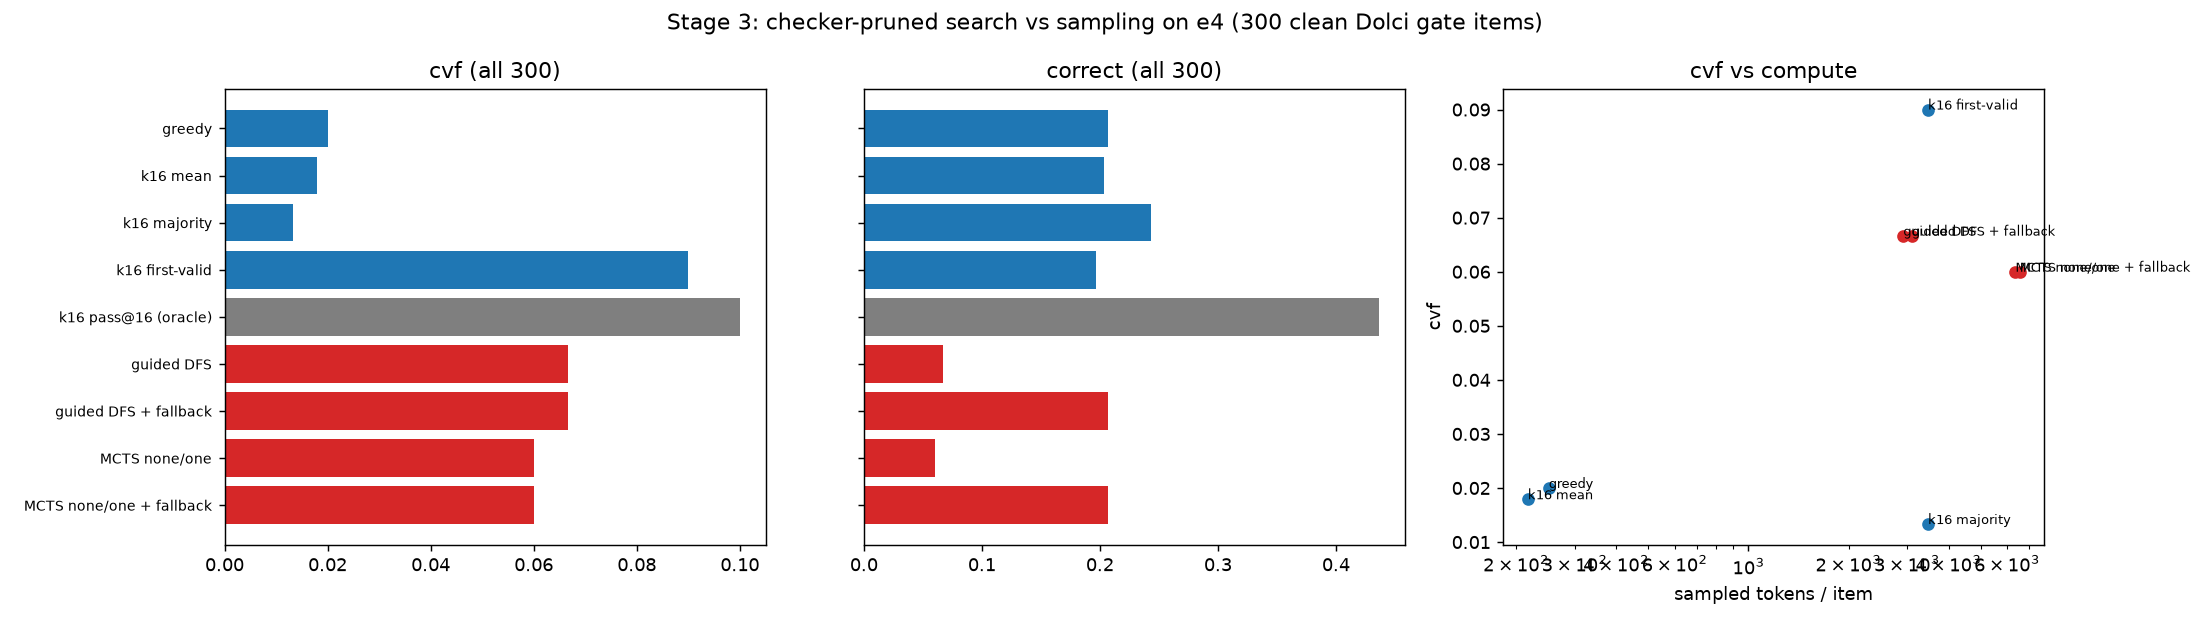
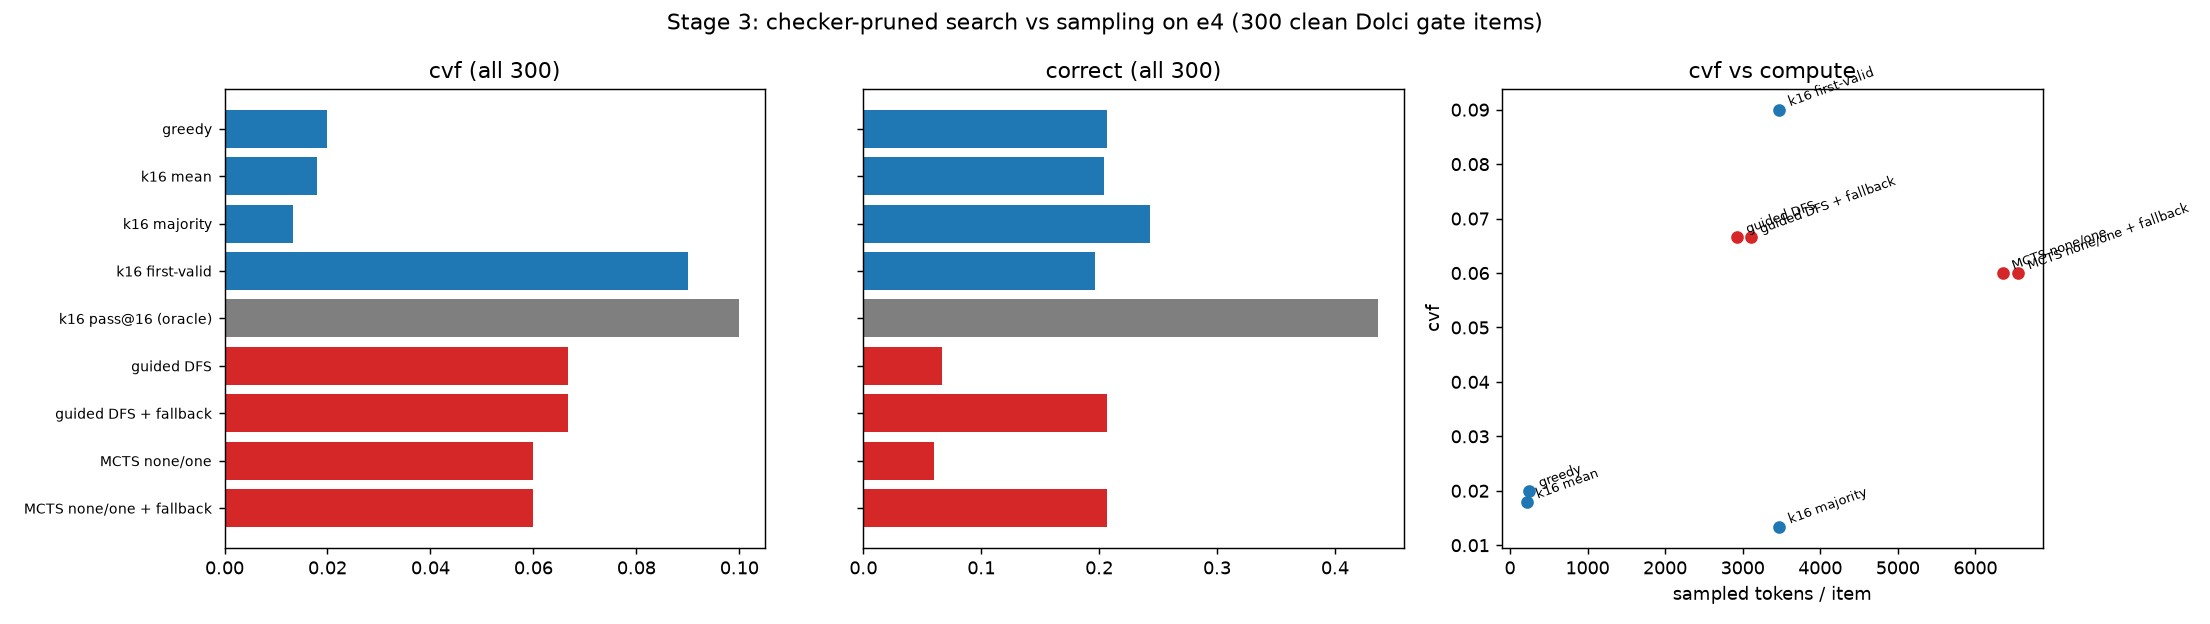
az_search figure: linear token axis
Claude-Session: https://claude.ai/code/session_01WnQYXLXLcnkw9LdZ4eJP3w

diff --git a/scripts/analysis/az_search.py b/scripts/analysis/az_search.py
@@ -136,8 +136,7 @@ def main():
             continue
         a = res[v]["all"]
         ax.scatter(a["tokens"], a["cvf"], color="C3" if not v.startswith(("greedy", "k16")) else "C0")
-        ax.annotate(v, (a["tokens"], a["cvf"]), fontsize=7)
-    ax.set_xscale("log")
+        ax.annotate(v, (a["tokens"], a["cvf"]), fontsize=7, rotation=20, xytext=(4, 2), textcoords="offset points")
     ax.set_xlabel("sampled tokens / item")
     ax.set_ylabel("cvf")
     ax.set_title("cvf vs compute")
